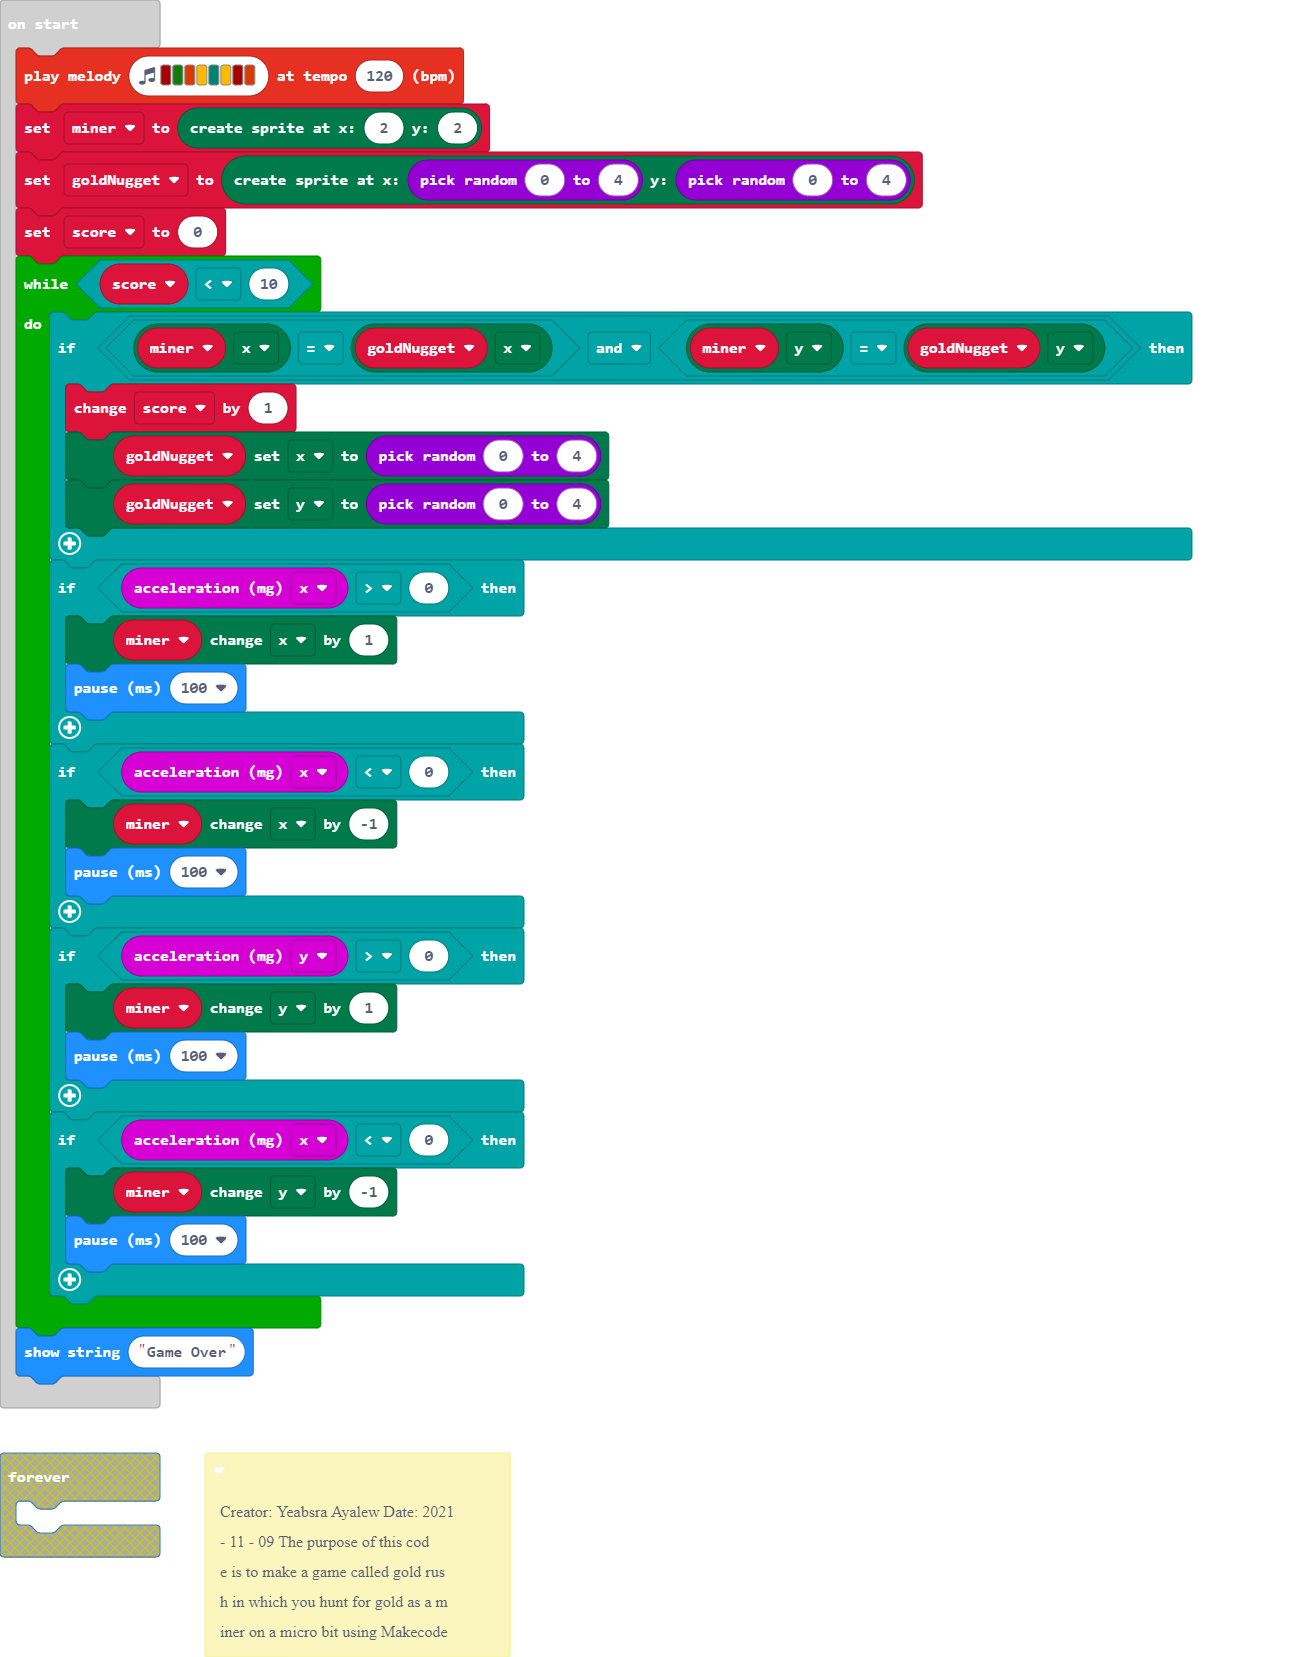
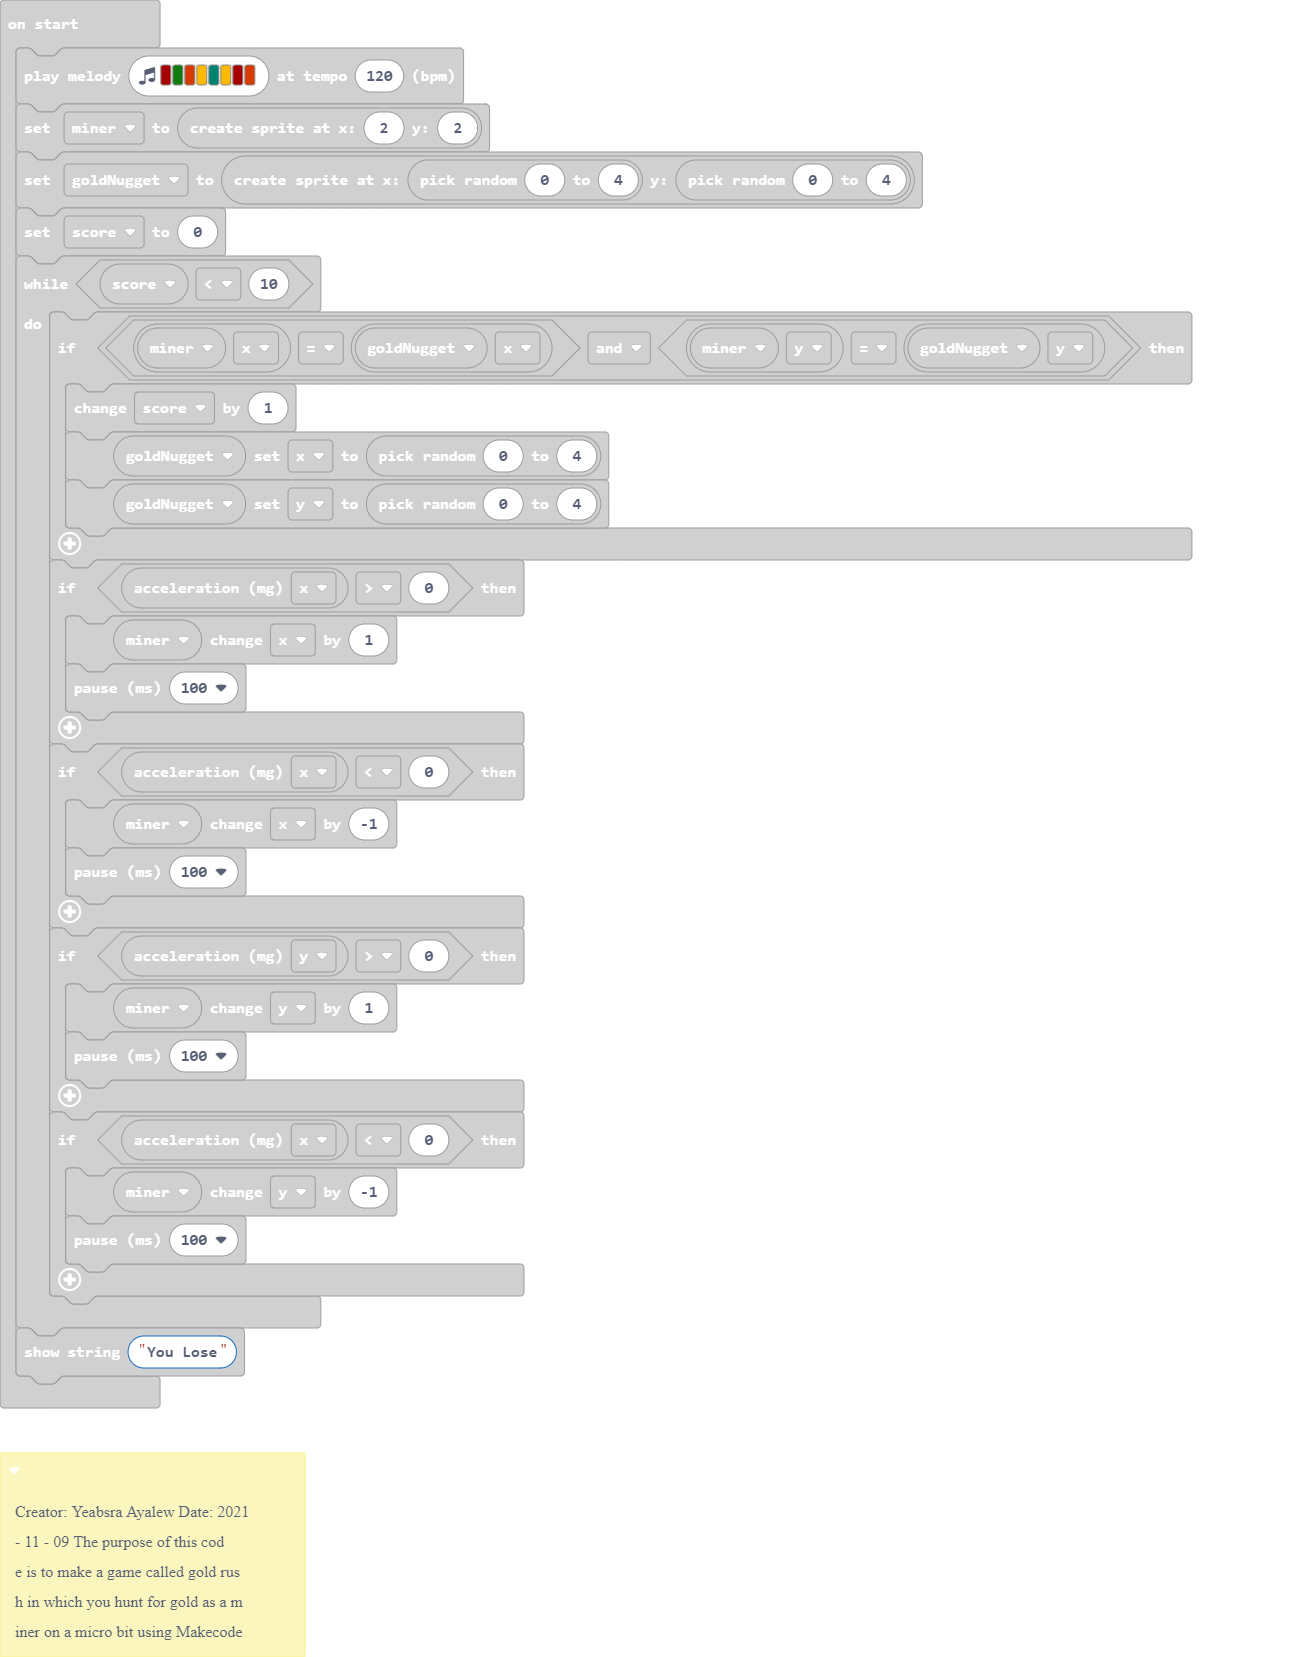
Update main.blocks, main.ts

diff --git a/main.ts b/main.ts
@@ -32,4 +32,4 @@ while (score < 10) {
         basic.pause(100)
     }
 }
-basic.showString("Game Over")
+basic.showString("You Lose")
